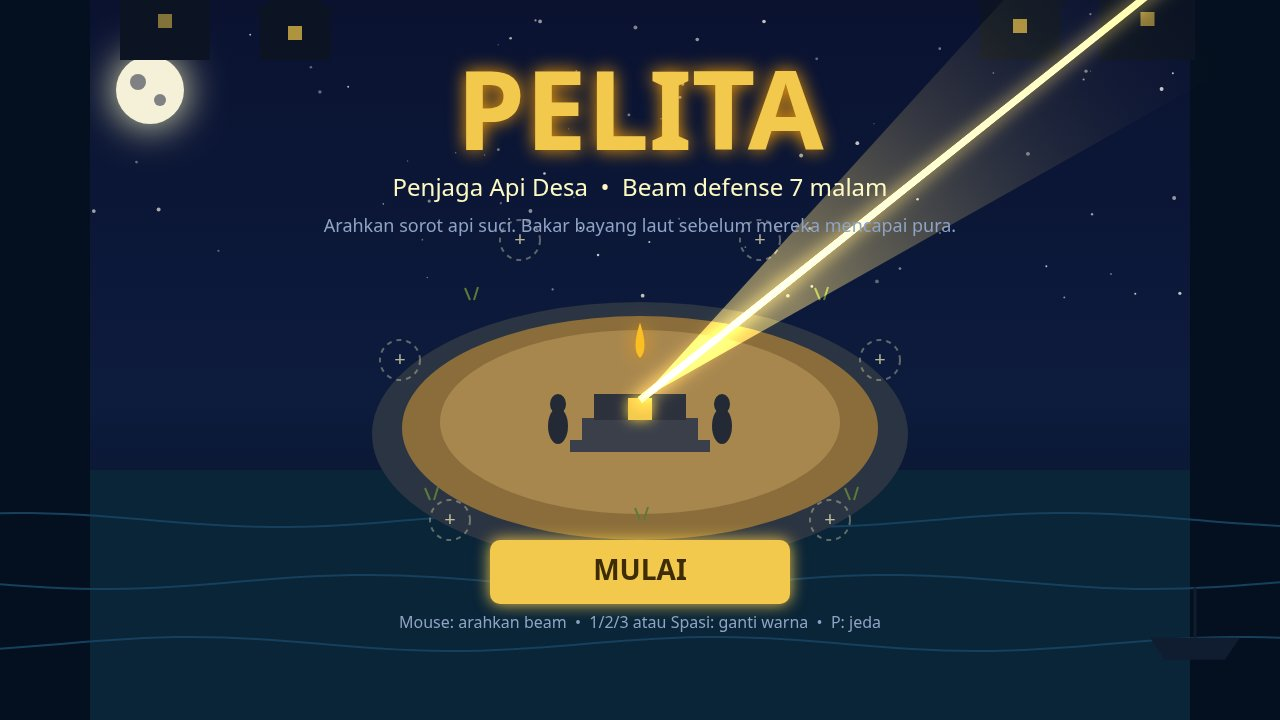
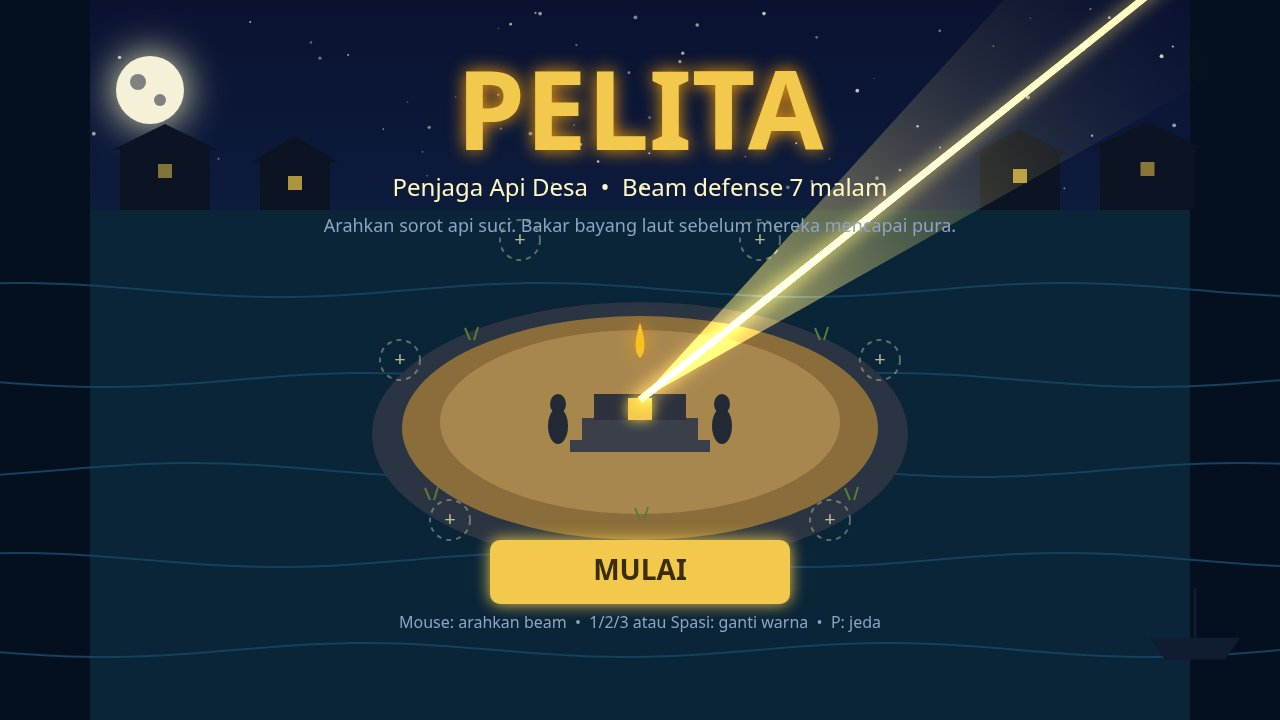
Fix floating island: raise sea to horizon y=210 so island sits in water
The island ellipse (top y=302) sat against the sky while the sea
started at y=470, so ~60% of the island read as a floating disc.
Move the sea surface above the island top (SEA_TOP=210), spread the
waves across the deeper sea, keep stars in the sky, move the village
huts onto the horizon, and put the two top grass tufts on the rock
ring. Rendering-only: TEMPLE, beam, enemies, lantern slots and all
balance numbers untouched; balance harness still passes all verdicts.

diff --git a/game/src/render.js b/game/src/render.js
@@ -6,7 +6,7 @@
 // paints the same frame.
 
 import {
-  BEAM, COLOR_ORDER, COLORS, ENEMIES, FIELD, FONT, LANTERN, PALETTE, TEMPLE,
+  BEAM, COLOR_ORDER, COLORS, ENEMIES, FIELD, FONT, LANTERN, PALETTE, SEA_TOP, TEMPLE,
 } from './config.js';
 
 export const SCREEN_TITLE = 'title';
@@ -60,7 +60,8 @@ function makeStars() {
   };
   const stars = [];
   for (let i = 0; i < 90; i += 1) {
-    stars.push({ x: next() * FIELD.width, y: next() * 300, r: 0.6 + next() * 1.4, tw: next() * 6 });
+    // Stars stay in the sky, above the horizon.
+    stars.push({ x: next() * FIELD.width, y: next() * (SEA_TOP - 20), r: 0.6 + next() * 1.4, tw: next() * 6 });
   }
   return stars;
 }
@@ -121,12 +122,12 @@ export function createRenderer(canvas) {
   }
 
   function drawSky(state) {
-    const gradient = context.createLinearGradient(0, 0, 0, FIELD.height);
+    // The sky covers only the strip above the horizon; the sea fills the rest.
+    const gradient = context.createLinearGradient(0, 0, 0, SEA_TOP);
     gradient.addColorStop(0, PALETTE.skyTop);
-    gradient.addColorStop(0.55, PALETTE.skyMid);
-    gradient.addColorStop(1, PALETTE.seaDeep);
+    gradient.addColorStop(1, PALETTE.skyMid);
     context.fillStyle = gradient;
-    context.fillRect(0, 0, FIELD.width, FIELD.height);
+    context.fillRect(0, 0, FIELD.width, SEA_TOP);
     // Stars, twinkling on the world clock.
     for (const star of STARS) {
       const alpha = 0.35 + 0.4 * (0.5 + 0.5 * Math.sin(state.time * 1.4 + star.tw));
@@ -146,17 +147,17 @@ export function createRenderer(canvas) {
   }
 
   function drawSea(state) {
-    // The sea fills the lower half and the side edges; the island sits in it.
+    // The sea fills everything below the horizon; the island sits in it.
     context.fillStyle = PALETTE.sea;
-    context.fillRect(0, 470, FIELD.width, FIELD.height - 470);
+    context.fillRect(0, SEA_TOP, FIELD.width, FIELD.height - SEA_TOP);
     context.fillStyle = PALETTE.seaDeep;
     context.fillRect(0, 0, 90, FIELD.height);
     context.fillRect(FIELD.width - 90, 0, 90, FIELD.height);
-    // Slow waves: three sine lines, phase from the world clock.
+    // Slow waves: five sine lines spread across the sea, phase from the world clock.
     context.strokeStyle = PALETTE.wave;
     context.lineWidth = 2;
-    for (let row = 0; row < 3; row += 1) {
-      const baseY = 520 + row * 62;
+    for (let row = 0; row < 5; row += 1) {
+      const baseY = 290 + row * 90;
       context.beginPath();
       for (let x = 0; x <= FIELD.width; x += 16) {
         const y = baseY + Math.sin(x * 0.012 + state.time * 0.9 + row * 2.1) * 7;
@@ -174,24 +175,24 @@ export function createRenderer(canvas) {
   }
 
   function drawVillage(state) {
-    // A fishing village along the top edge: hut silhouettes, warm windows.
+    // A fishing village on the far shore, sitting on the horizon.
     context.fillStyle = '#0c1424';
     const huts = [
       { x: 120, w: 90, h: 60 }, { x: 260, w: 70, h: 48 }, { x: 980, w: 80, h: 55 },
       { x: 1100, w: 95, h: 62 },
     ];
     for (const hut of huts) {
-      context.fillRect(hut.x, 60 - hut.h, hut.w, hut.h);
+      context.fillRect(hut.x, SEA_TOP - hut.h, hut.w, hut.h);
       context.beginPath();
-      context.moveTo(hut.x - 8, 60 - hut.h);
-      context.lineTo(hut.x + hut.w / 2, 60 - hut.h - 26);
-      context.lineTo(hut.x + hut.w + 8, 60 - hut.h);
+      context.moveTo(hut.x - 8, SEA_TOP - hut.h);
+      context.lineTo(hut.x + hut.w / 2, SEA_TOP - hut.h - 26);
+      context.lineTo(hut.x + hut.w + 8, SEA_TOP - hut.h);
       context.closePath();
       context.fill();
       // A warm window, flickering gently on the clock.
       const flicker = 0.75 + 0.25 * Math.sin(state.time * 2 + hut.x);
       context.fillStyle = `rgba(242,201,76,${flicker.toFixed(2)})`;
-      context.fillRect(hut.x + hut.w / 2 - 7, 60 - hut.h + 14, 14, 14);
+      context.fillRect(hut.x + hut.w / 2 - 7, SEA_TOP - hut.h + 14, 14, 14);
       context.fillStyle = '#0c1424';
     }
     // A fishing boat, bobbing on the right.
@@ -220,10 +221,10 @@ export function createRenderer(canvas) {
     ellipse(TEMPLE.x, TEMPLE.y + 28, 238, 112);
     context.fillStyle = PALETTE.sandLight;
     ellipse(TEMPLE.x, TEMPLE.y + 22, 200, 92);
-    // Beach grass tufts.
+    // Beach grass tufts, all on the island's rock ring.
     context.strokeStyle = '#5d7a3a';
     context.lineWidth = 2;
-    for (const [gx, gy] of [[430, 500], [850, 500], [470, 300], [820, 300], [640, 520]]) {
+    for (const [gx, gy] of [[430, 500], [850, 500], [470, 340], [820, 340], [640, 520]]) {
       context.beginPath();
       context.moveTo(gx, gy);
       context.lineTo(gx - 5, gy - 12);

diff --git a/game/src/config.js b/game/src/config.js
@@ -11,6 +11,11 @@ export const STEP = 1 / 60;
 /** The temple the shadows march on. Enemies that touch it damage it. */
 export const TEMPLE = { x: 640, y: 400, radius: 52, hp: 100, repair: 25 };
 
+/** The sea's surface (the horizon), in field coordinates. Visual only: the
+ *  island's top edge is at y=302, so the surface sits above it and the whole
+ *  island reads as sand in the water, never as a disc floating in the sky. */
+export const SEA_TOP = 210;
+
 /** Beam colours. Gold, red and blue; keys 1/2/3 or Space to switch. */
 export const COLORS = {
   gold: { name: 'Emas', hex: '#f2c94c', glow: '#fde68a', dark: '#b45309' },
